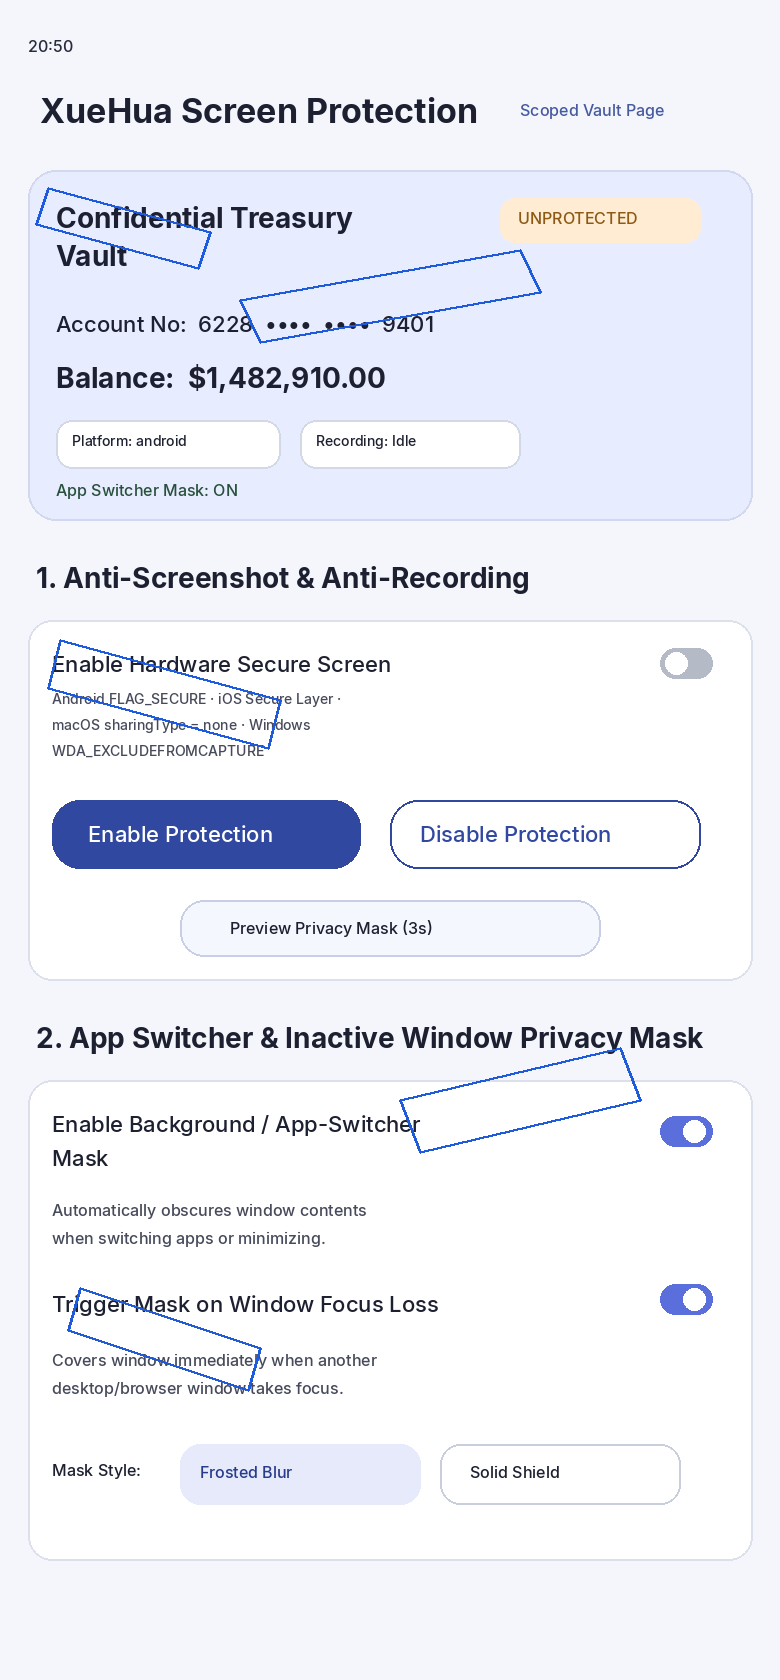
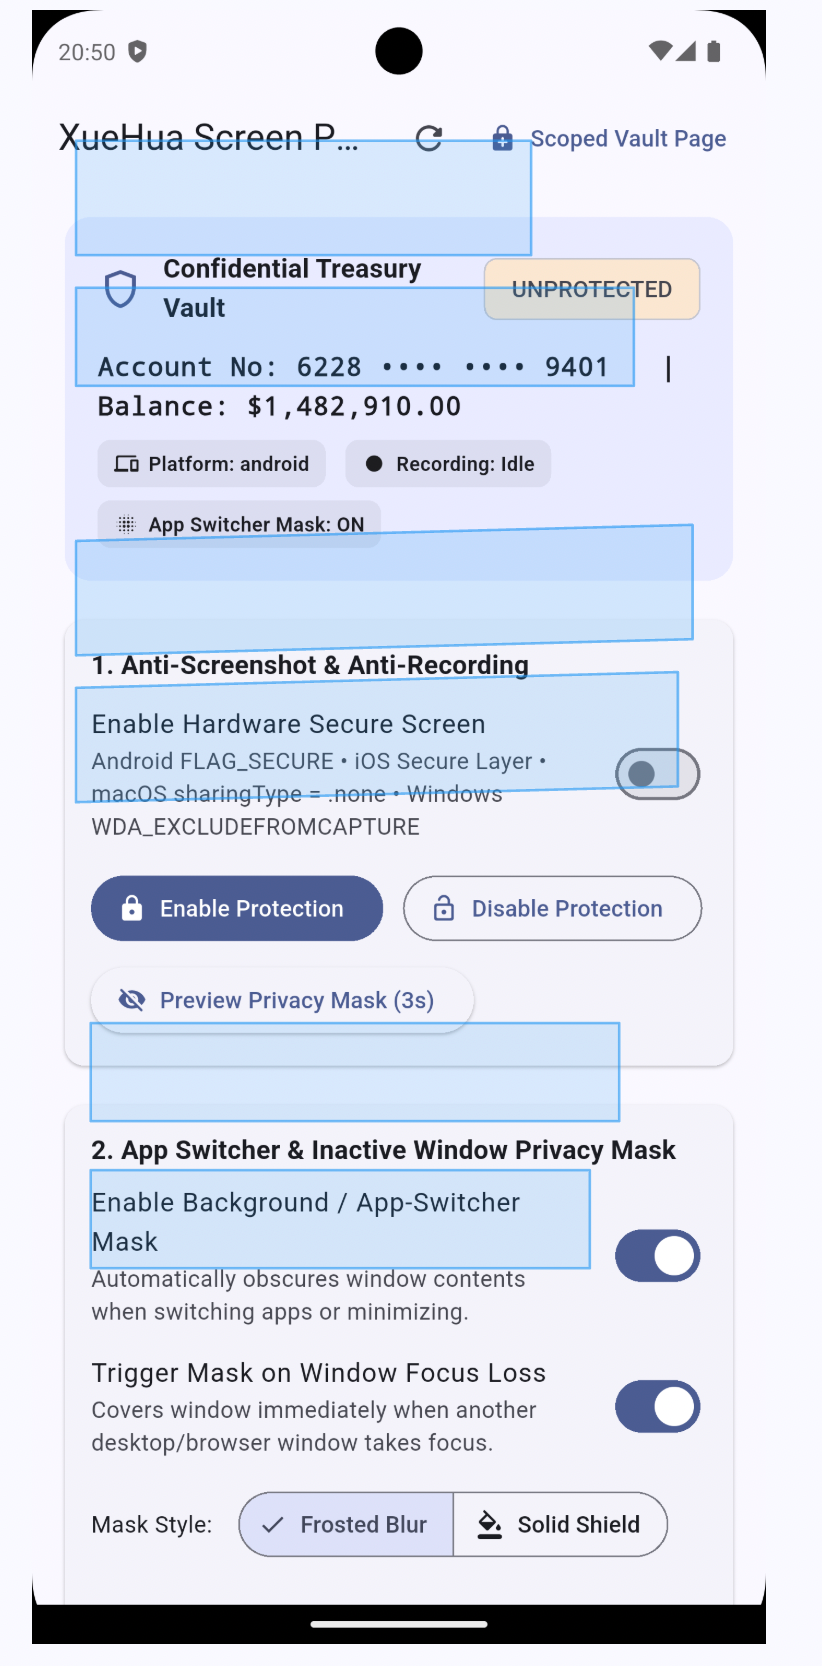
fix(live-text): flatten the owner screenshot's short overlay sliver
The complaint fixture is the owner's 822×1666 PNG. A 20×15 edge
regressed to −20° over a 7px rise, inside a 9px column, so the old
6px rise floor kept it tilted. Rotation now requires the baseline to
climb by more than that column height. A ~12° glyph run still rotates.

diff --git a/lib/src/models/ocr_ink_line_localizer.dart b/lib/src/models/ocr_ink_line_localizer.dart
@@ -410,10 +410,11 @@ class OcrInkLineLocalizer {
       // A glyph stroke fills several pixels in each column. A skewed overlay
       // edge or rounded-corner sliver is only 1–4px tall per column and must
       // not become a rotated highlight.
-      if (_medianColumnSpan(ink, width, aa, bb, yy0, yy1) < 6) continue;
+      final int span = _medianColumnSpan(ink, width, aa, bb, yy0, yy1);
+      if (span < 6) continue;
 
       final double angle = options.doAngle
-          ? _baselineAngle(ink, width, aa, bb, yy0, yy1, rw, rh)
+          ? _baselineAngle(ink, width, aa, bb, yy0, yy1, rw, rh, span)
           : 0;
 
       final double pad =
@@ -486,6 +487,10 @@ class OcrInkLineLocalizer {
 
   /// Baseline tilt in degrees. Horizontal UI text, including a few degrees of
   /// centroid noise, stays at 0. A coherent rotated run (about 12°) is kept.
+  ///
+  /// [medianSpan] is the ink's own column height. The baseline has to climb
+  /// by more than that before the quad rotates. A short overlay sliver can
+  /// regress past 6° while rising only a handful of pixels inside its stroke.
   static double _baselineAngle(
     Uint8List ink,
     int width,
@@ -495,6 +500,7 @@ class OcrInkLineLocalizer {
     int y1,
     int rw,
     int rh,
+    int medianSpan,
   ) {
     double sumX = 0;
     double sumY = 0;
@@ -526,7 +532,10 @@ class OcrInkLineLocalizer {
     // Upright screenshot text regresses a few degrees off flat. That is noise.
     if (angle.abs() <= 6.0) return 0;
     final double rise = slope.abs() * rw;
-    if (rise < math.max(6.0, rh * 0.45)) return 0;
+    // Rise must clear the stroke itself. The complaint screenshot's leftover
+    // blue edge is 20×15px and climbs 7px inside a 9px column, which is not
+    // a rotated glyph run. A ~12° stroke run climbs several times its span.
+    if (rise < math.max(medianSpan.toDouble(), rh * 0.45)) return 0;
     return angle;
   }
 

diff --git a/lib/src/engine/rapid_ocr_worker_script.dart b/lib/src/engine/rapid_ocr_worker_script.dart
@@ -252,7 +252,7 @@ function medianColumnSpan(ink, width, x0, x1, y0, y1) {
   return spans[spans.length >> 1];
 }
 
-function baselineAngle(ink, width, x0, x1, y0, y1, rw, rh) {
+function baselineAngle(ink, width, x0, x1, y0, y1, rw, rh, medianSpan) {
   let sumX = 0, sumY = 0, sumXX = 0, sumXY = 0, n = 0;
   for (let x = x0; x < x1; x++) {
     let count = 0, sum = 0;
@@ -276,7 +276,8 @@ function baselineAngle(ink, width, x0, x1, y0, y1, rw, rh) {
   const angle = Math.atan(slope) * 180 / Math.PI;
   if (Math.abs(angle) <= 6) return 0;
   const rise = Math.abs(slope) * rw;
-  if (rise < Math.max(6, rh * 0.45)) return 0;
+  // Climb must exceed the ink's own column height (short overlay slivers).
+  if (rise < Math.max(medianSpan, rh * 0.45)) return 0;
   return angle;
 }
 
@@ -469,8 +470,9 @@ function localizeInkLines(data, w, h, options) {
       const density = inkPixels / (rw * rh);
       const occupancy = occupied / rw;
       if (density < 0.025 || occupancy < 0.22) continue;
-      if (medianColumnSpan(ink, w, aa, bb, yy0, yy1) < 6) continue;
-      const angle = doAngle ? baselineAngle(ink, w, aa, bb, yy0, yy1, rw, rh) : 0;
+      const columnSpan = medianColumnSpan(ink, w, aa, bb, yy0, yy1);
+      if (columnSpan < 6) continue;
+      const angle = doAngle ? baselineAngle(ink, w, aa, bb, yy0, yy1, rw, rh, columnSpan) : 0;
       const pad = Math.min(
         rh * 0.35,
         Math.max(1, Math.min(3, rh * 0.08)) * (unclipRatio / 1.6)

diff --git a/test/ocr_complaint_image_test.dart b/test/ocr_complaint_image_test.dart
@@ -5,8 +5,9 @@ import 'dart:ui' as ui;
 import 'package:flutter_test/flutter_test.dart';
 import 'package:xue_hua_navite_rapid_ocr/xue_hua_navite_rapid_ocr.dart';
 
-/// Upright vault UI plus the steep translucent edges that the complaint
-/// screenshot's skewed highlight quads leave behind.
+/// Owner screenshot of the XueHua vault UI with the skewed highlight quads
+/// already painted into the pixels. This file is the original attachment
+/// (638636 bytes, 822×1666), not a synthetic stand-in.
 const String _kComplaintPng = 'example/ocr_overlay_complaint.png';
 
 void main() {
@@ -16,10 +17,13 @@ void main() {
   test('complaint screenshot keeps horizontal UI runs untilted', () async {
     final File file = File(_kComplaintPng);
     expect(file.existsSync(), isTrue, reason: 'missing $_kComplaintPng');
+    expect(file.lengthSync(), 638636, reason: 'fixture must be the owner PNG');
     final ({int width, int height, Uint8List rgba}) image = await _decodePng(
       binding,
       file.readAsBytesSync(),
     );
+    expect(image.width, 822);
+    expect(image.height, 1666);
     final List<OcrTextLine> lines = _recognize(
       image.rgba,
       image.width,

diff --git a/CHANGELOG.md b/CHANGELOG.md
@@ -1,6 +1,6 @@
 ## Unreleased
 
-* Horizontal UI text no longer gets a rotated quad from a thin edge or a few degrees of centroid noise. Glyph runs thinner than 6px per column (skewed overlay edges, borders) are dropped. Baseline tilt within 6° snaps to an axis-aligned box; a coherent ~12° run stays rotated. `OcrLiveTextStyle.axisSnapDegrees` defaults to 6.
+* Horizontal UI text no longer gets a rotated quad from a thin edge or a few degrees of centroid noise. Glyph runs thinner than 6px per column (skewed overlay edges, borders) are dropped. Baseline tilt within 6° snaps to an axis-aligned box. A short sliver rotates only when its baseline climbs by more than its own column height, so the owner vault screenshot's 20×15 edge (about −20° over a 7px rise) stays flat. A coherent ~12° glyph run, which climbs several times its stroke height, stays rotated. `OcrLiveTextStyle.axisSnapDegrees` defaults to 6. The complaint fixture is that screenshot (`example/ocr_overlay_complaint.png`, 822×1666).
 * **Pre-release breaking API cleanup.** This package has not been published to pub.dev, so compatibility shims were removed. `OcrLiveTextOverlay` takes `OcrLiveTextLayout` (`BoxFit`, `Alignment`, filter quality) and `OcrLiveTextStyle` (colors, outset, score floors, axis snap) instead of optional widget parameters kept so older call sites would compile. `OcrImageCoordinateTransform.compute` requires alignment and image scale; scale and offset are derived from the source and destination rects. The painter requires highlight outset and source line indices. Corner mapping has one path: EXIF when the decoded bitmap is still pre-orientation, otherwise per-axis scale into the decoded pixels, then `BoxFit`. The fallback that ignored a mismatched decode and painted in OCR pixel space is gone.
 * Live Text highlights follow Flutter `paintImage` / `applyBoxFit` (contain, cover, fill, alignment, and image scale), including letterboxing and EXIF orientation. Near-upright quads snap to a tight axis-aligned box; empty and near-zero-score detections are not drawn. Decoded bitmaps are localized from glyph edges instead of a fixed sheared demo sheet. Arbitrary screenshots still use a placeholder transcription until ONNX weights run.
 * Aligned ONNX model pack and asset paths with **RapidOCR v3.10.0** (`*_mobile.onnx` naming, ModelScope `resolve/v3.10.0`, SHA256 checks in `scripts/download_models.sh`).
